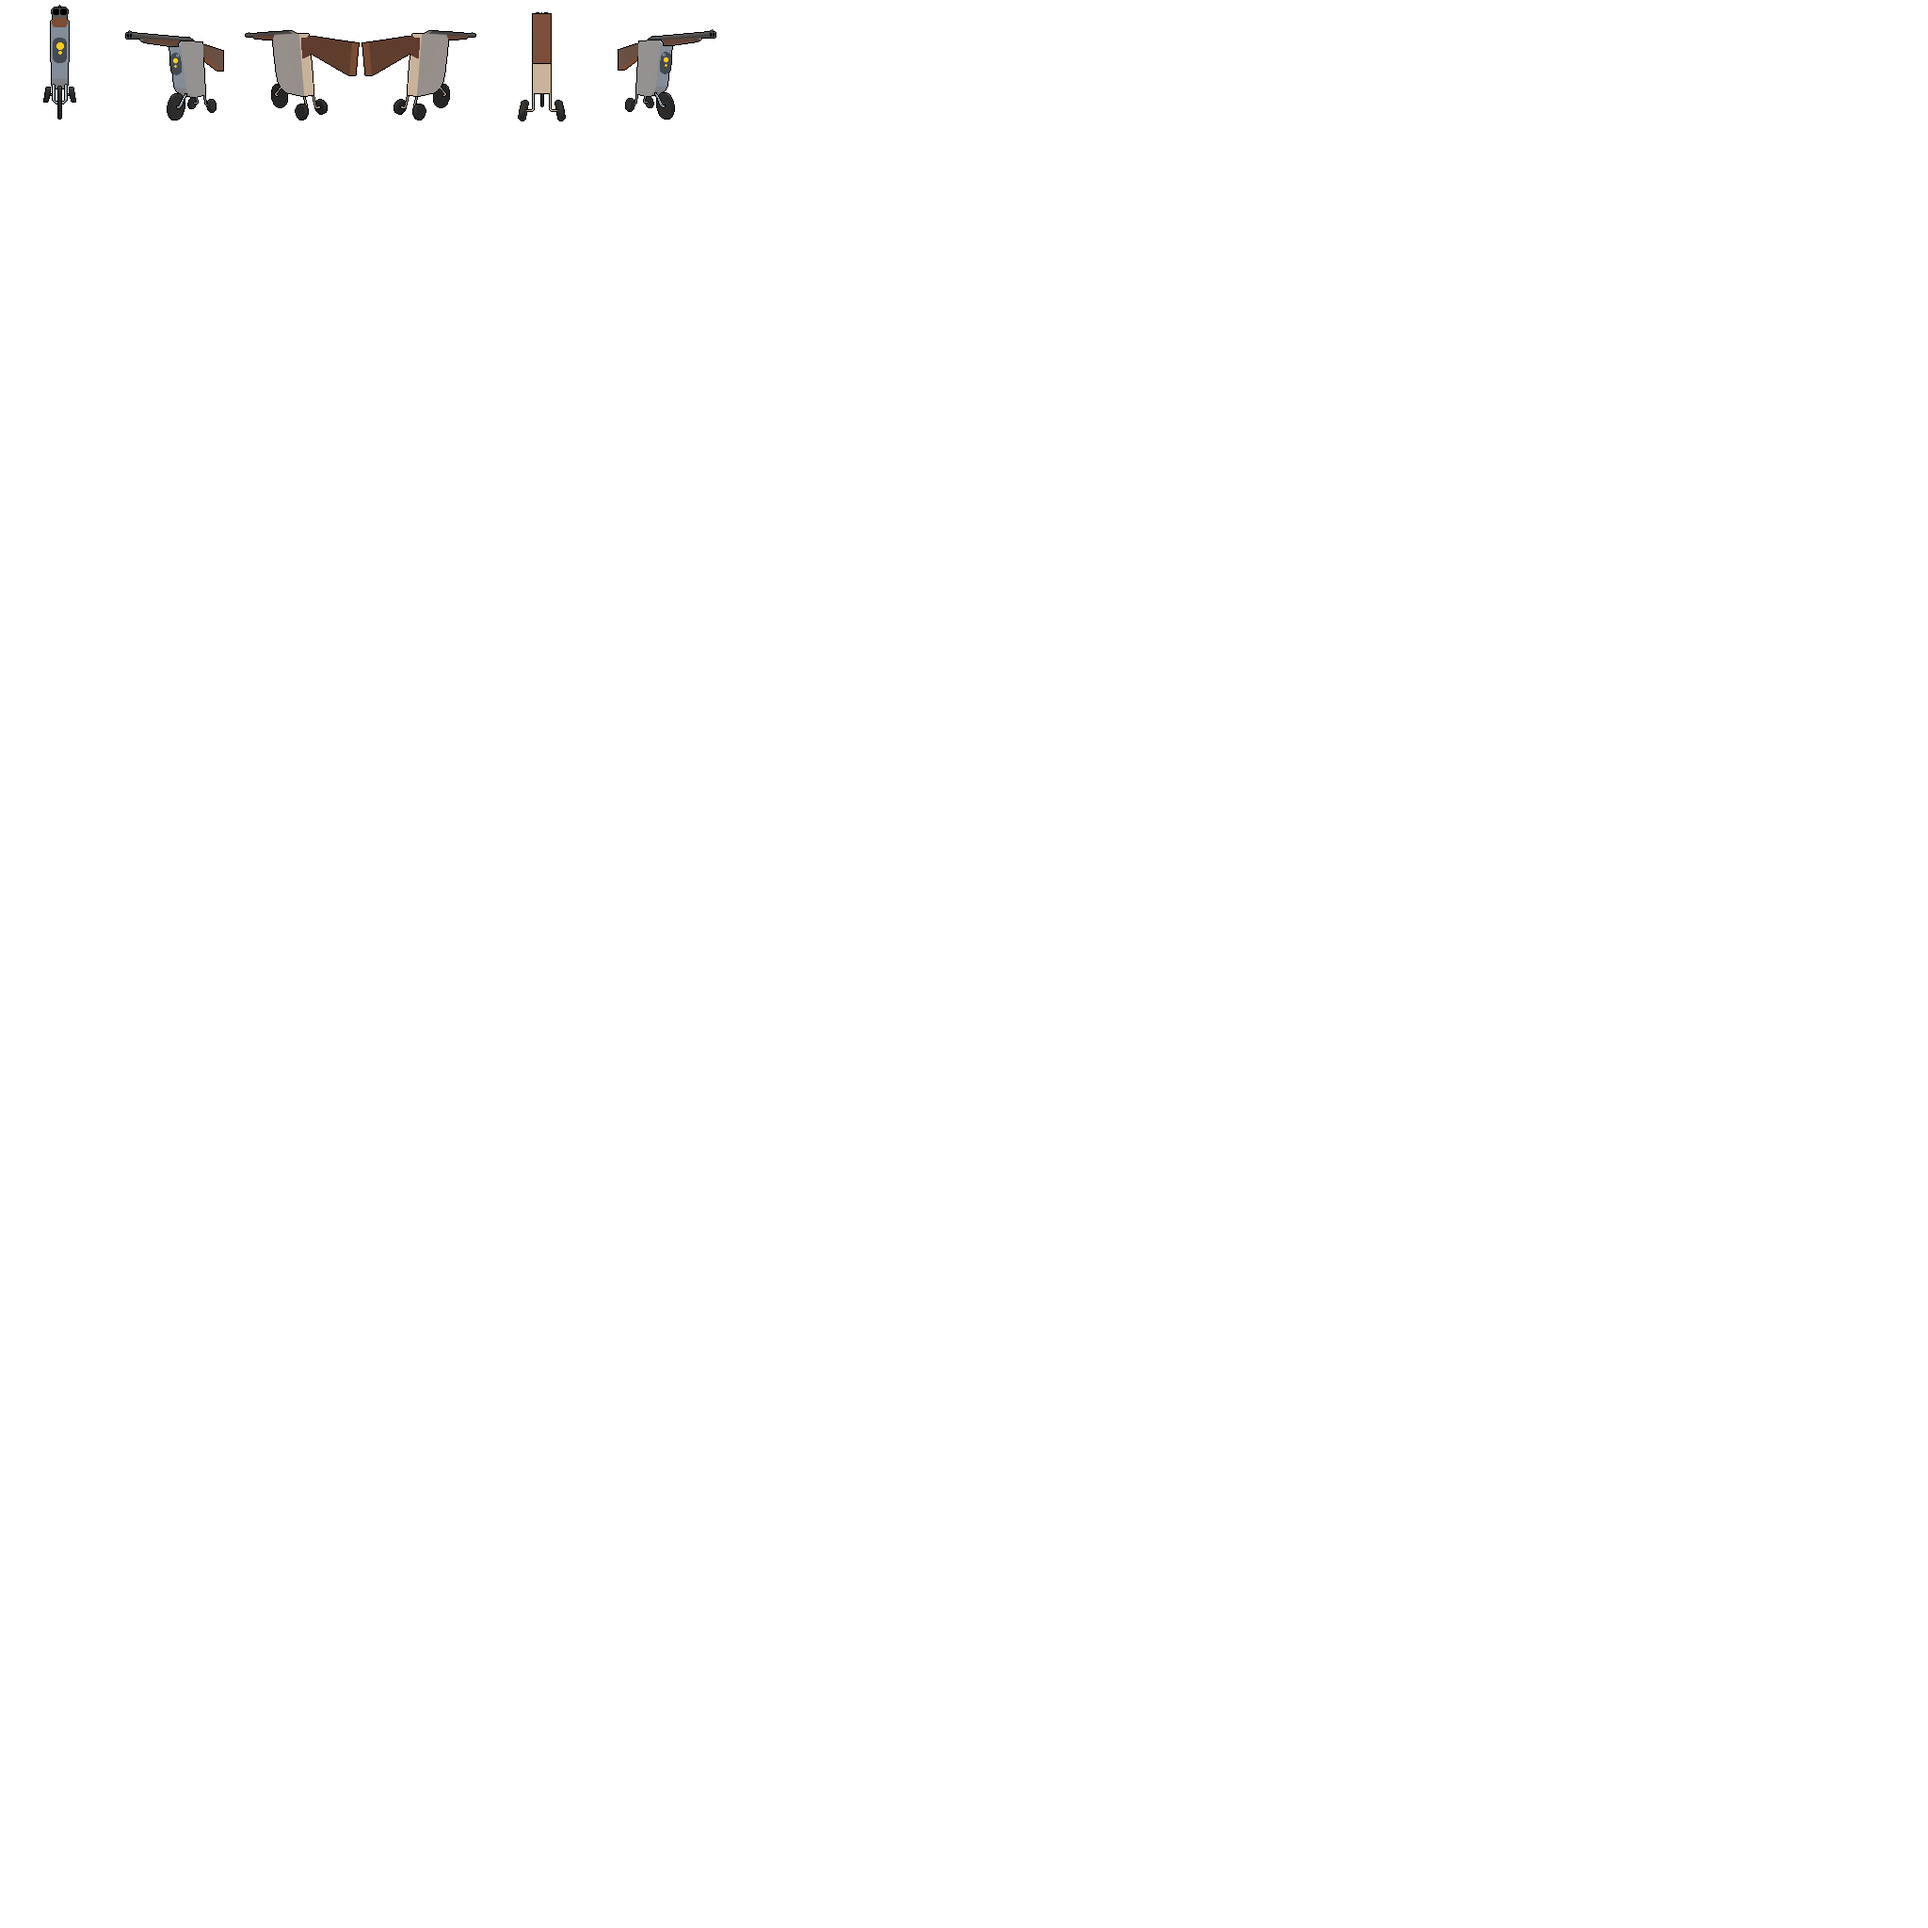
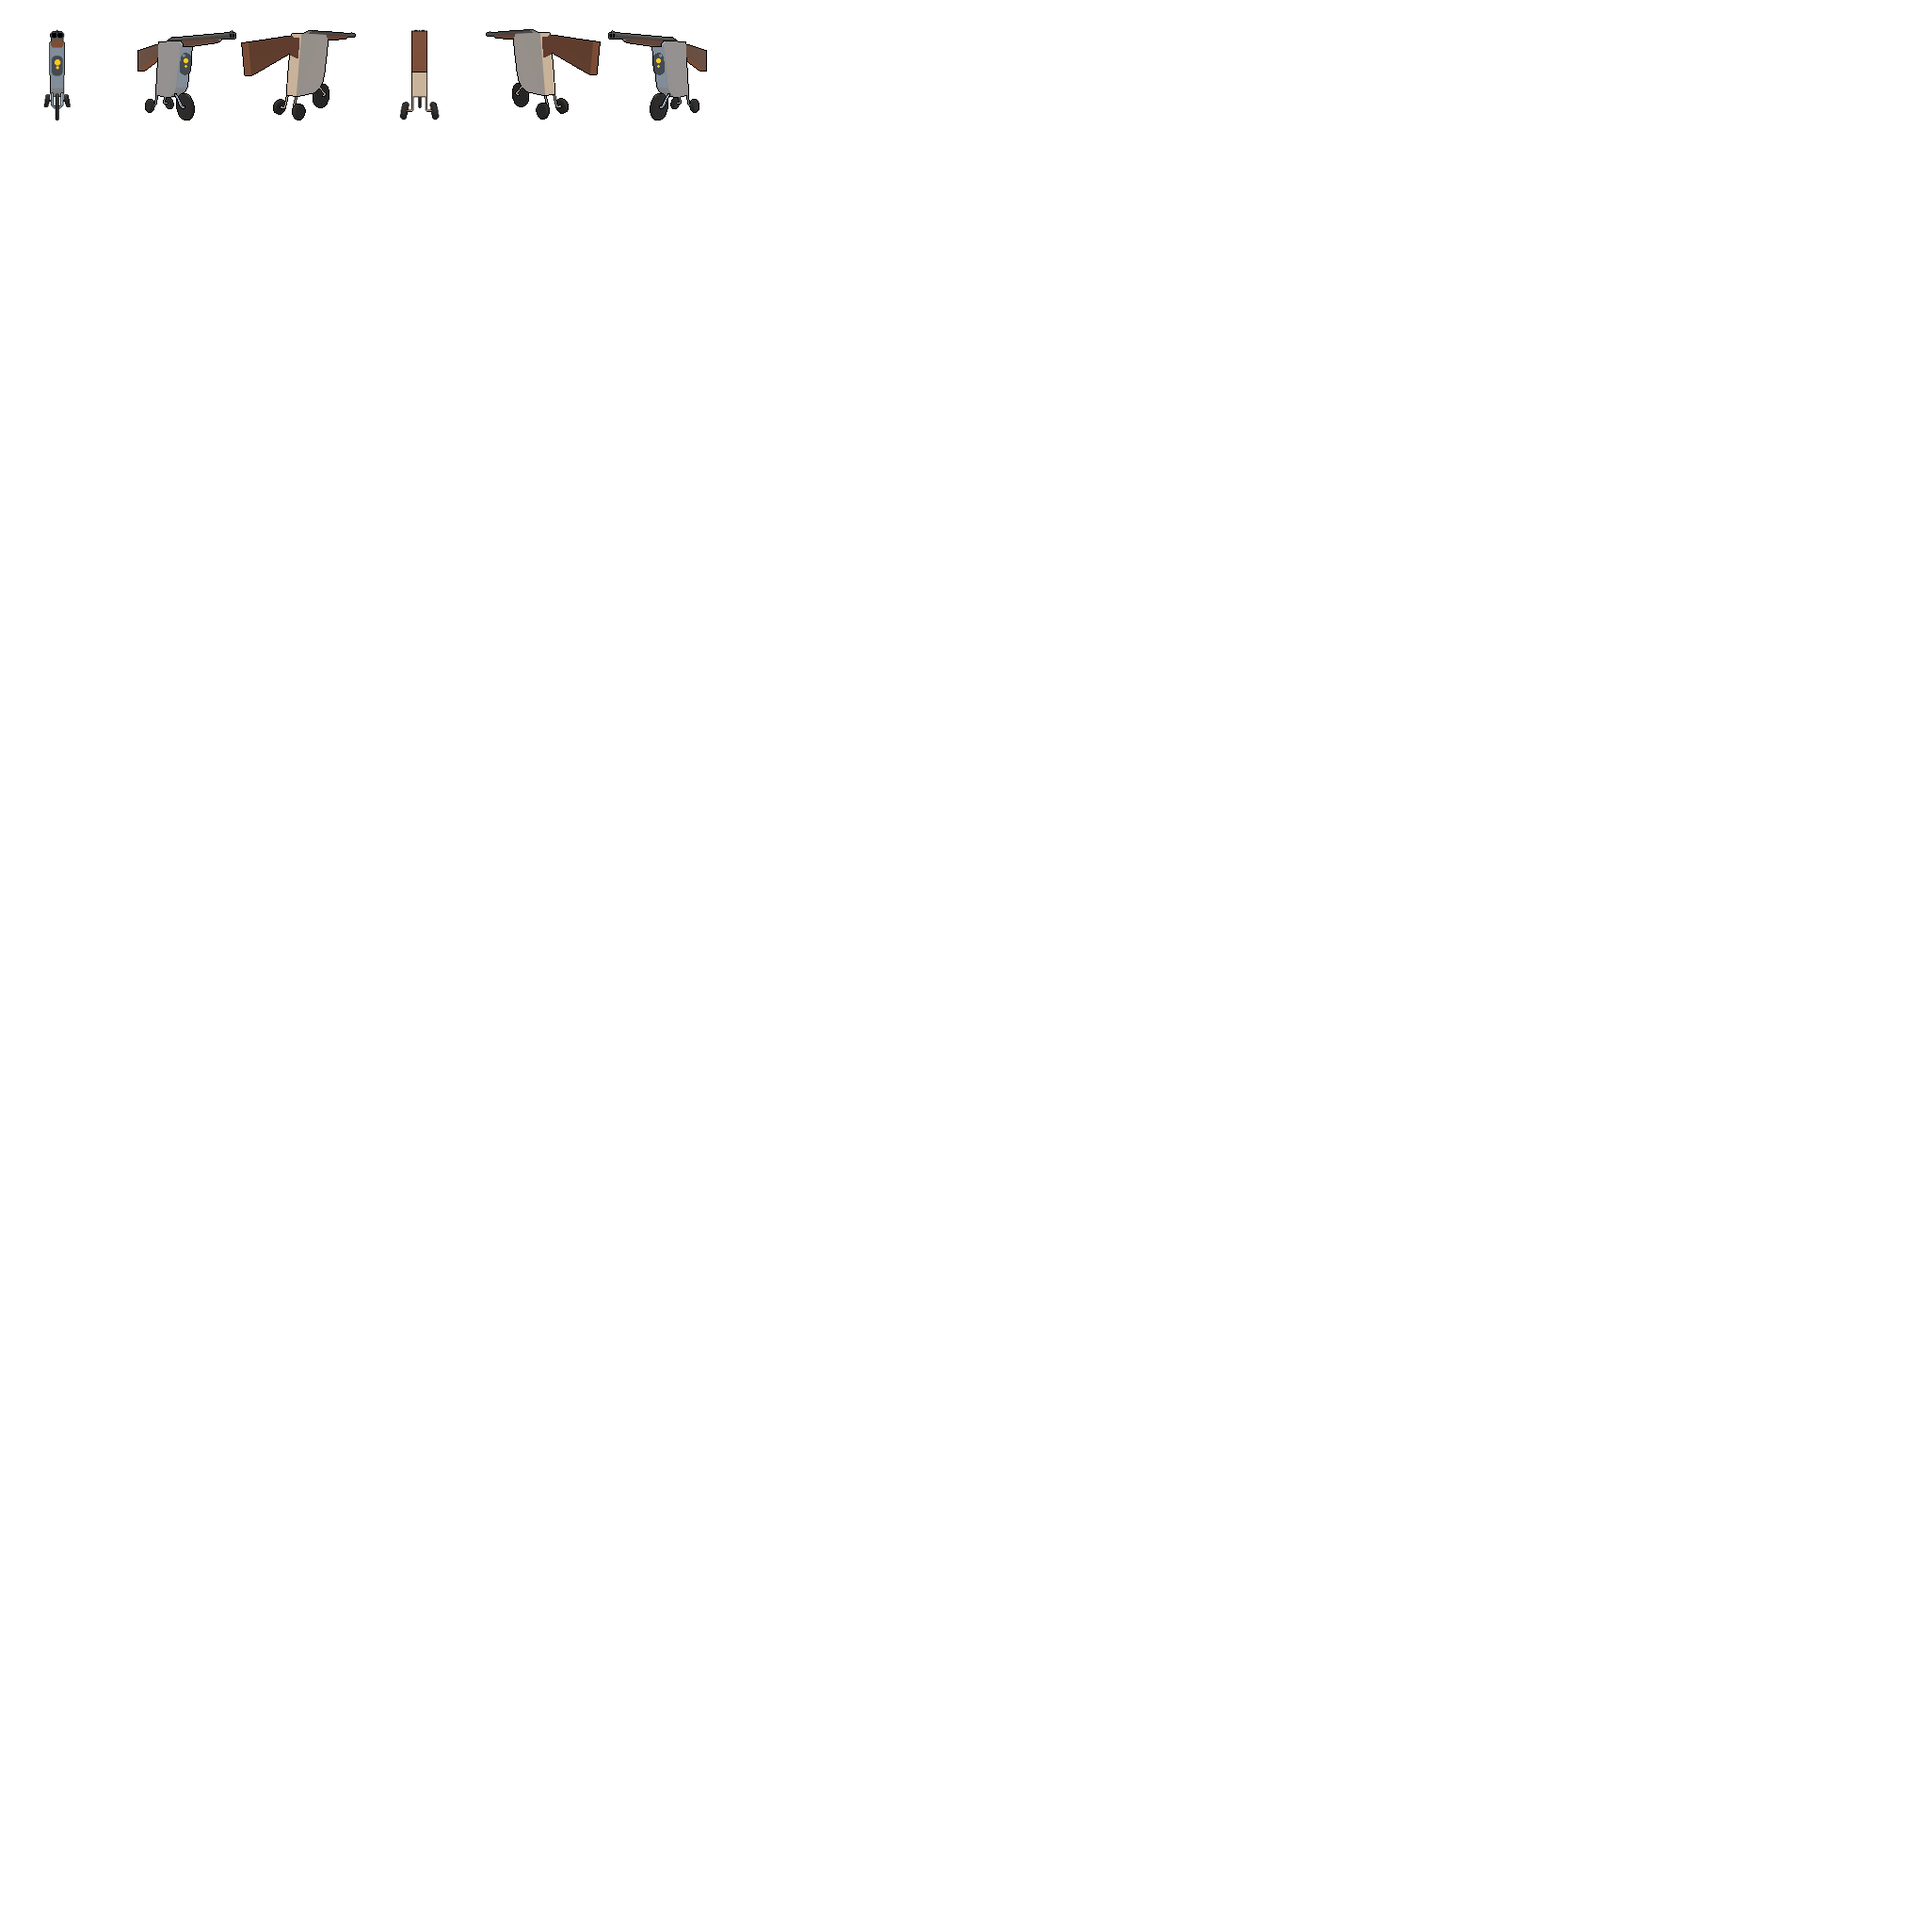
Fixed Enemy texture order.
Changes;
- Fixed angle calculations.
- Fixed enemy texture order.
- Added index for enemy death frame.

Changed region(s): [[0.0, 0.0, 0.375, 0.0625]]

diff --git a/src/exct/render.py b/src/exct/render.py
@@ -449,32 +449,33 @@ def PROCESS_OBJECT(OBJECT_DATA, PLAYER_INSTANCE, COPIED_VERTS, COPIED_INDICES, S
 		if OBJECT_TYPE in (ENEMY,):
 			FACING_DIRECTION = (PLAYER_INSTANCE.POSITION - OBJECT_DATA.POSITION).TO_VECTOR_2D().NORMALISE()
 			OBJECT_POS = OBJECT_DATA.ROTATION.TO_VECTOR_2D().NORMALISE()
-			ANGLE = OBJECT_POS.DOT(FACING_DIRECTION) * utils.SIGN(OBJECT_POS.DET(FACING_DIRECTION))
-			print(ANGLE, utils.SIGN(OBJECT_POS.DET(FACING_DIRECTION)))
+			DIRECTION = utils.SIGN(OBJECT_POS.DET(FACING_DIRECTION))
+			ANGLE = (OBJECT_POS.DOT(FACING_DIRECTION) + 1) * 0.5 * DIRECTION
+
+			#Convert Dot product to the range 0←1 for right, and -1←0
 
 			match ANGLE:
-				case N if N > 0.75 or N <= -0.75: #Front, 1
+				case N if N >=  0.9 or N <  -0.9:		#Front, Texture-1
 					TEXTURES = OBJECT_DATA.TEXTURE_INFO[0]
 				
-				case N if N <= 0.75 and N > 0.5: #FL, 2
+				case N if N <=  0.9 and N >  0.5:		#Front-Right, Texture-2
 					TEXTURES = OBJECT_DATA.TEXTURE_INFO[1]
 
-				case N if N <= 0.5 and N > 0.2: #BL, 3
+				case N if N <=  0.5 and N >  0.1:		#Back-Right, Texture-3
 					TEXTURES = OBJECT_DATA.TEXTURE_INFO[2]
 
-				case N if N <= 0.2 and N > -0.2: #Back, 4
+				case N if N <=  0.1 and N > -0.1:		#Back, Texture-4
 					TEXTURES = OBJECT_DATA.TEXTURE_INFO[3]
 
-				case N if N <= -0.2 and N > -0.5: #BR, 5
+				case N if N <= -0.1 and N > -0.5:		#Back-Left, Texture-5
 					TEXTURES = OBJECT_DATA.TEXTURE_INFO[4]
 				
-				case N if N <= -0.5 and N > -0.75: #BL, 6
+				case N if N <= -0.5 and N > -0.9:		#Front-Left, Texture-6
 					TEXTURES = OBJECT_DATA.TEXTURE_INFO[5]
 
 
-			if not OBJECT_DATA.ALIVE: #Deceased, 7
+			if not OBJECT_DATA.ALIVE: 				#Deceased, Texture-7
 				TEXTURES = OBJECT_DATA.TEXTURE_INFO[6]
-
 
 			#While not the ideal time to do pathfinding calculations, this is the only time enemies alone are referenced ONCE in a frame.
 			#Physics does multiple iterations per frame, and extra loops are slow.
@@ -502,9 +503,9 @@ def PROCESS_OBJECT(OBJECT_DATA, PLAYER_INSTANCE, COPIED_VERTS, COPIED_INDICES, S
 					PHYS_DATA
 				)
 
-				if (ANGLE > 0.5) and (type(COLLIDED_OBJECT) == PLAYER):
+				if (abs(ANGLE) > 0.75) and (type(COLLIDED_OBJECT) == PLAYER):
 					#Have roughly 90* (π/4 rad) of targetting area ahead of them.
-					OBJECT_DATA.AWAKE = False
+					OBJECT_DATA.AWAKE = True
 
 
 		else:

diff --git a/src/exct/utils.py b/src/exct/utils.py
@@ -1620,7 +1620,6 @@ class VECTOR_2D:
 	def NORMALISE(self): #Normalise self // {self}.NORMALISE()
 		MAGNITUDE = abs(self)
 		if MAGNITUDE != 0:
-			print(self, MAGNITUDE, self/MAGNITUDE)
 			return self / MAGNITUDE
 
 		return VECTOR_2D(0.0, 0.0)
